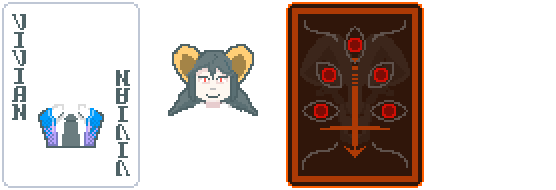
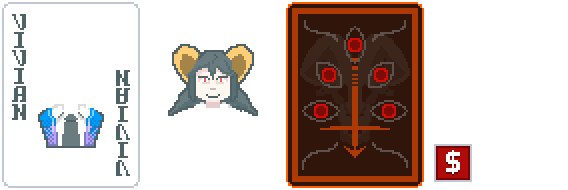
Fixes

diff --git a/README.md b/README.md
@@ -1,6 +1,6 @@
 # Vivian Joker
 
-Mod adding a joker after an original character of [Akihari Chiko](https://x.com/akihari_chiko), Vivian
+Mod adding a joker after an original character of [Akihari Chiko](https://bsky.app/profile/akihari-chiko.bsky.social), Vivian
 
 ### Requires [Steamodded 1.0.0](https://github.com/Steamopollys/Steamodded/wiki/01.-Getting-started) and [Lovely](https://github.com/ethangreen-dev/lovely-injector?tab=readme-ov-file#manual-installation)
 
@@ -14,10 +14,10 @@ Mod adding a joker after an original character of [Akihari Chiko](https://x.com/
 
 Features Vivian as the rare Joker with ability to gain mult with scored spade cards instead of chips
 
-Rulings (and known issues):
+Rulings:
 * Conversion happens as a joker proc on played scored card, similarly to Wraithful Joker and Arrowhead
-* On proc, base chip value of a card (2-11) and chip values of edition (50 for foil) and enchantment (30 for bonus) are subtracted from hand score and that much mult is added instead
-* Other effects, including Hiker, that grant chips do not interact with Vivian
-* Additional copies of Vivian (through Invisible joker, Showman, Blueprint, etc) do the same, potentially resulting in going into negative chips and actually draining your score. Doing so might bug out score display however 
+* On proc, gain base value of the card, edition and enchanment chip bonuses as mult, and subtract that much from chips
+* Other effects that grant chips, like Hiker, do not interact with Vivian
+* Chips drain does not stop at 0 and might cause chips to go into negatives (eg. from retriggers), draining your score, including putting itself score into negatives 
 
-Additionally, there's also a deck that contains him as a starting joker
+Additionally, there's also a deck that contains him as a starting joker with a sticker that removes his sell value (can be still sold)
